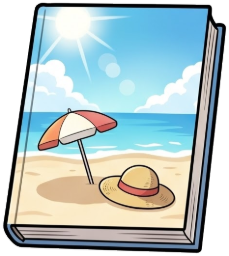
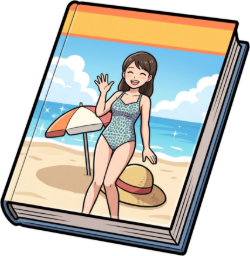
写真集アイコンの作り直し・付箋のページ・料理本アイコンの画像を追加
Claude-Session: https://claude.ai/code/session_01BjHUUb83sw9x9rR1dkTzuD

diff --git a/README.md b/README.md
@@ -156,8 +156,8 @@ cd android && ./gradlew assembleDebug   # → android/app/build/outputs/apk/debu
 | kouhai_notice.jpg | 後輩女子からの通知（Gemini で生成、文字化けした本文は上から描き直し） | ✅ |
 | group_photo.jpg | 後輩チャットの日にチャットへ貼る飲み会の集合写真（Gemini で生成） | ✅ |
 | bg_battle.jpg / robot_hero.png / robot_wife.png / pilot_hero.png / pilot_wife.png | スーパー夫婦大戦（ロボット大戦風フィナーレ）の背景・機体・顔（Gemini で生成。主人公の機体は左右反転） | ✅ |
-| gravure_page.jpg | 写真集を拾ったときに開く付箋のページ（無ければ文字だけ） | — |
-| item_saru_recipe.png | メシマズの日の「火に油」アイテム、料理本のアイコン（無ければ四角＋ラベル） | — |
+| gravure_page.jpg | 写真集を拾ったときに開く付箋のページ（Gemini で生成） | ✅ |
+| item_saru_recipe.png | メシマズの日の「火に油」アイテム、料理本のアイコン（Gemini で生成） | ✅ |
 | castle_gate.png | 魔王城フィナーレで玄関ドアに重ねる門（Gemini で生成） | ✅ |
 | bg_court.jpg / bg_siege.jpg / bg_exposed.jpg | 家庭裁判（法廷全体）・家族会議・公開処刑のフィナーレ背景（Gemini で生成） | ✅ |
 | bg_court_judge / defense / prosecutor / witness .jpg | 家庭裁判のカメラ切り替え（Gemini で生成。無ければ bg_court で代用） | ✅ |
